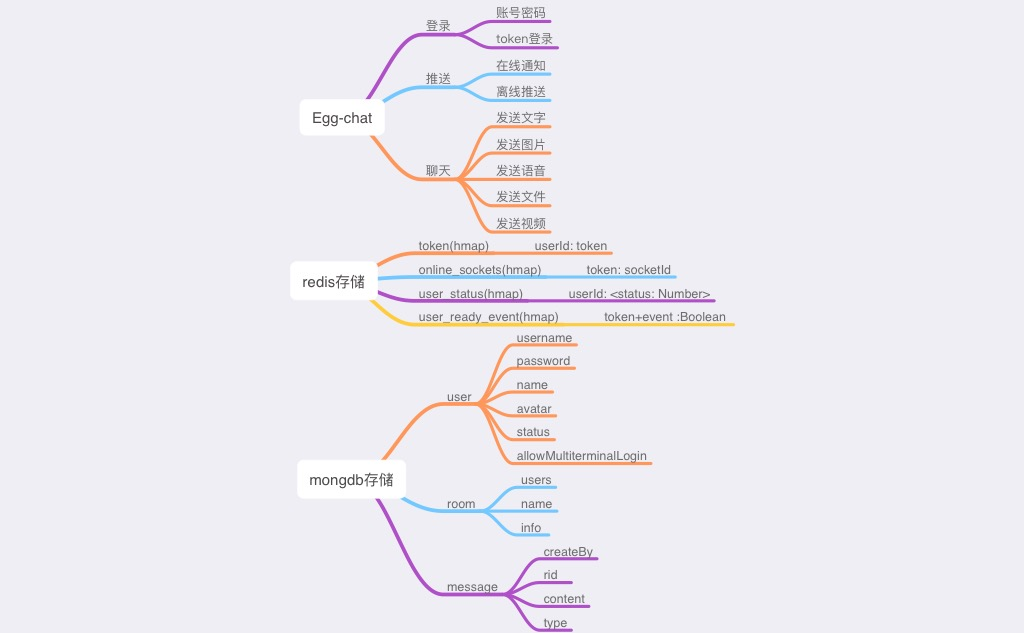
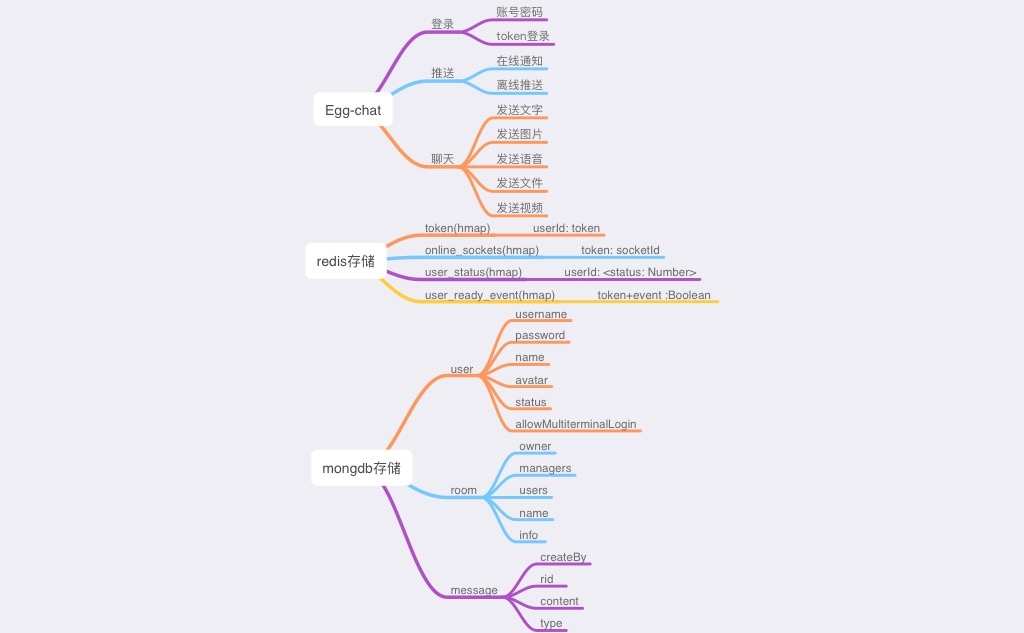
[CHANGE]change the model of 'user' 'message' and 'room'

Changed region(s): [[0.2812, 0.0, 0.7188, 1.0]]

diff --git a/server/app/model/user.js b/server/app/model/user.js
@@ -4,7 +4,11 @@ module.exports = app => {
     
     const UserSchema = new Schema({
         username: { type: String },
-        password: { type: String }
+        password: { type: String },
+        name: { type: String, default: 'user' },
+        avatar: { type: String, default: '' },
+        status: { type: Number, default: 0 },
+        allowMultitermimalLogin: { type: Boolean, default: false }
     }, {
         timestamps: true
     });

diff --git a/server/app/model/message.js b/server/app/model/message.js
@@ -3,10 +3,10 @@ module.exports = app => {
     const Schema = mongoose.Schema
     
     const MessageSchema = new Schema({
-        room: { type: String },
+        rid: { type: String },
         createBy: { type: String },
-        messageType: { type: Number },
-        messageContent: { type: String }
+        type: { type: Number },
+        content: { type: String }
     }, {
         timestamps: true
     });

diff --git a/server/app/model/room.js b/server/app/model/room.js
@@ -4,7 +4,10 @@ module.exports = app => {
     
     const RoomSchema = new Schema({
         name: { type: String },
-        owner: { type: String }
+        owner: { type: String },
+        managers: [[String]],
+        users: [[String]],
+        info: { type: String }
     }, {
         timestamps: true
     });
